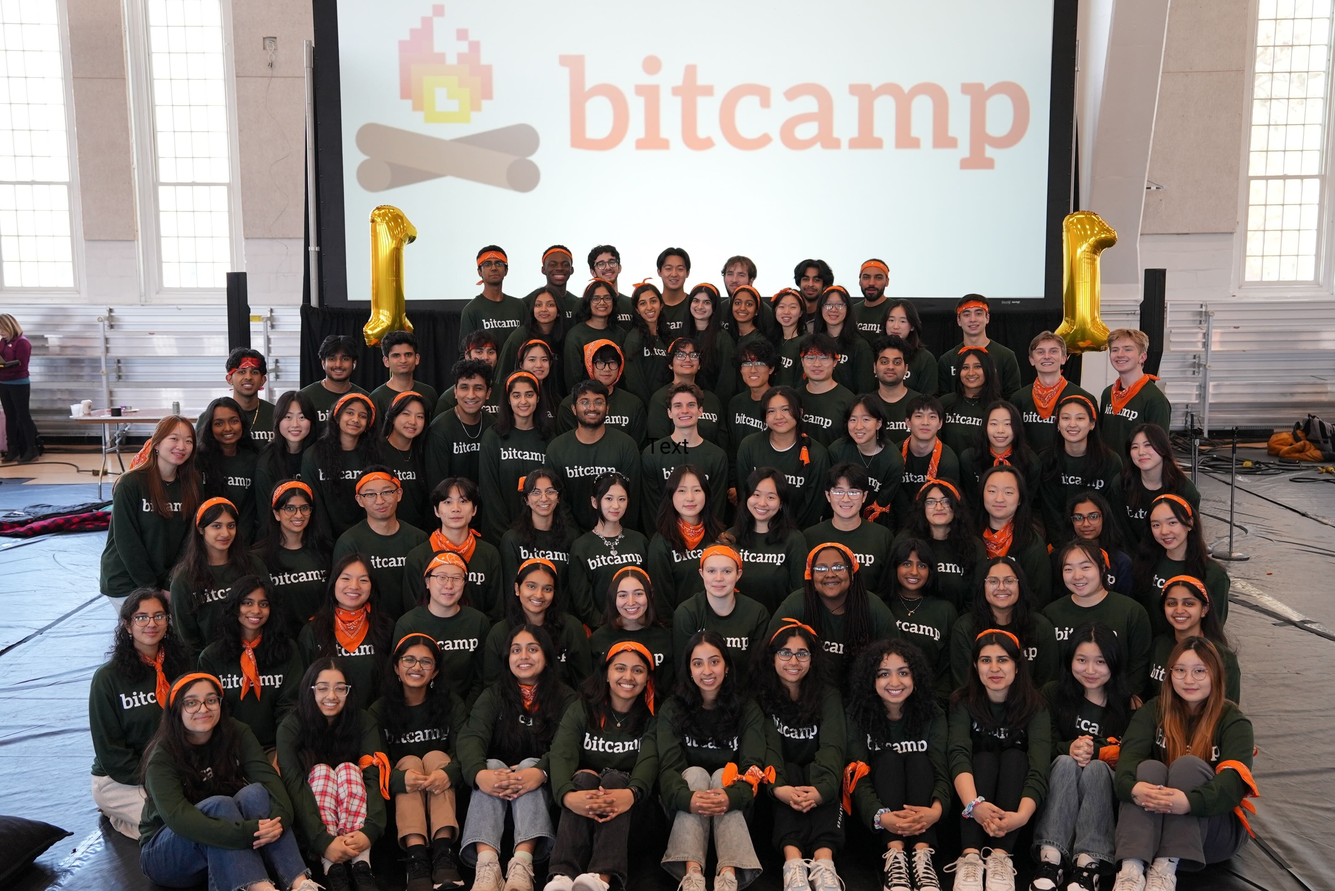
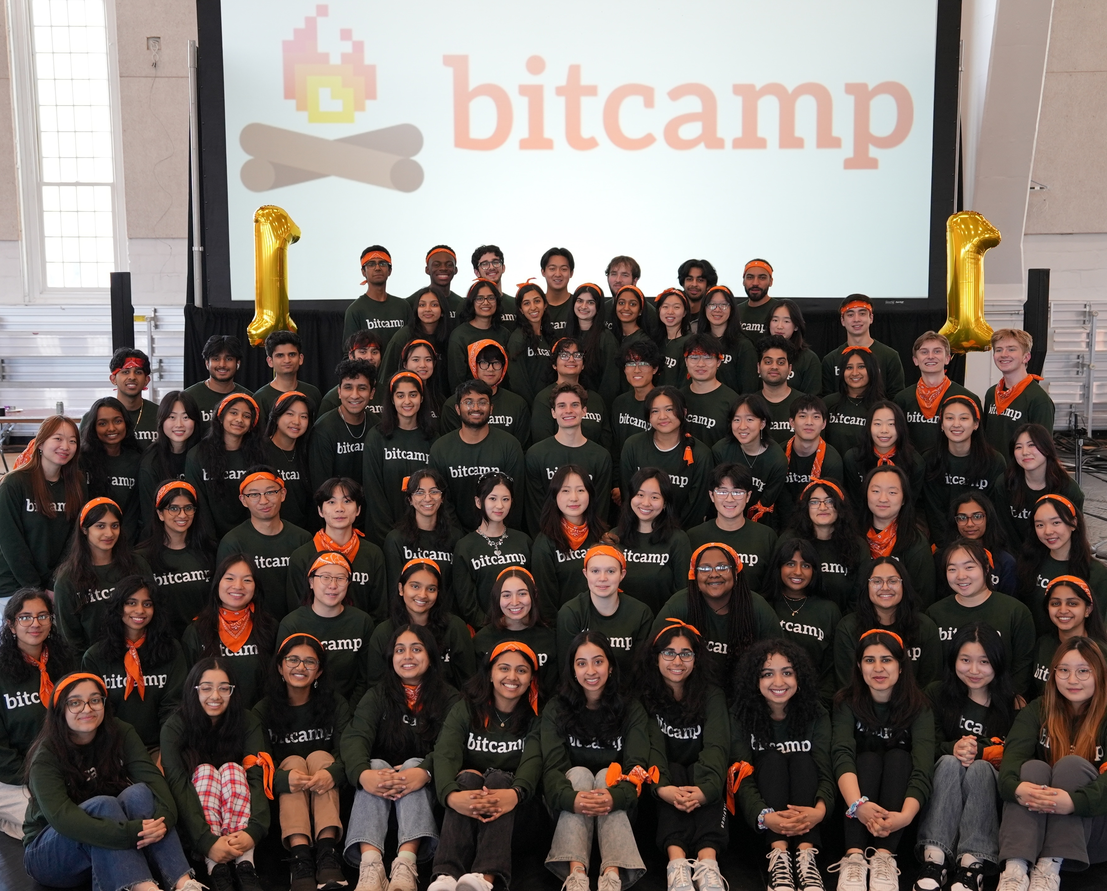
markers fix

diff --git a/pages/index.vue b/pages/index.vue
@@ -34,6 +34,7 @@
         <div class="marker-container fourth"><div class="marker"></div></div>
         <div class="marker-container fifth"><div class="marker"></div></div>
         <div class="marker-container sixth"><div class="marker"></div></div>
+        <div class="marker-container seventh"><div class="marker"></div></div>
       </div>
     </div>
   </div>
@@ -326,26 +327,54 @@ export default {
 }
 
 @keyframes float-red {
-  0%   { transform: translate(0, 0); }
-  25%  { transform: translate(-40px, -180px); }
-  50%  { transform: translate(60px, -320px); }
-  75%  { transform: translate(-20px, -140px); }
-  100% { transform: translate(0, 0); }
+  0% {
+    transform: translate(0, 0);
+  }
+  25% {
+    transform: translate(-40px, -180px);
+  }
+  50% {
+    transform: translate(60px, -320px);
+  }
+  75% {
+    transform: translate(-20px, -140px);
+  }
+  100% {
+    transform: translate(0, 0);
+  }
 }
 
 @keyframes float-blue {
-  0%   { transform: translate(0, 0); }
-  30%  { transform: translate(80px, -200px); }
-  60%  { transform: translate(-60px, -280px); }
-  80%  { transform: translate(30px, -100px); }
-  100% { transform: translate(0, 0); }
+  0% {
+    transform: translate(0, 0);
+  }
+  30% {
+    transform: translate(80px, -200px);
+  }
+  60% {
+    transform: translate(-60px, -280px);
+  }
+  80% {
+    transform: translate(30px, -100px);
+  }
+  100% {
+    transform: translate(0, 0);
+  }
 }
 
 @keyframes float-green {
-  0%   { transform: translate(0, 0) rotate(0deg); }
-  33%  { transform: translate(-30px, -80px) rotate(3deg); }
-  66%  { transform: translate(20px, -120px) rotate(-2deg); }
-  100% { transform: translate(0, 0) rotate(0deg); }
+  0% {
+    transform: translate(0, 0) rotate(0deg);
+  }
+  33% {
+    transform: translate(-30px, -80px) rotate(3deg);
+  }
+  66% {
+    transform: translate(20px, -120px) rotate(-2deg);
+  }
+  100% {
+    transform: translate(0, 0) rotate(0deg);
+  }
 }
 
 .red-planet {
@@ -443,7 +472,7 @@ export default {
   position: absolute;
   width: 140px;
   height: 140px;
-  /* border: 2px dashed rgba(255, 255, 255, 0.25); */
+  /* border: 2px dashed rgb(255, 0, 0); */
   border-radius: 10px;
   display: flex;
   justify-content: center;
@@ -481,21 +510,26 @@ export default {
 
 .third {
   right: 10%;
-  top: 45%;
+  top: 43%;
 }
 
 .fourth {
   left: 20%;
-  top: 65%;
+  top: 60%;
 }
 
 .fifth {
   left: 60%;
-  top: 80%;
+  top: 74%;
 }
 
 .sixth {
   left: 15%;
+  top: 85%;
+}
+
+.seventh {
+  right: 10%;
   top: 95%;
 }
 

diff --git a/components/TeamPage.vue b/components/TeamPage.vue
@@ -344,10 +344,11 @@ export default defineComponent({
 }
 
 .small_photo {
-  width: 110%;
-  aspect-ratio: 1.15/1;
+  height: auto;
+  width: 100%;
   padding-bottom: 2%;
   overflow: hidden;
+  object-fit: cont;
 }
 
 .polo_box {
